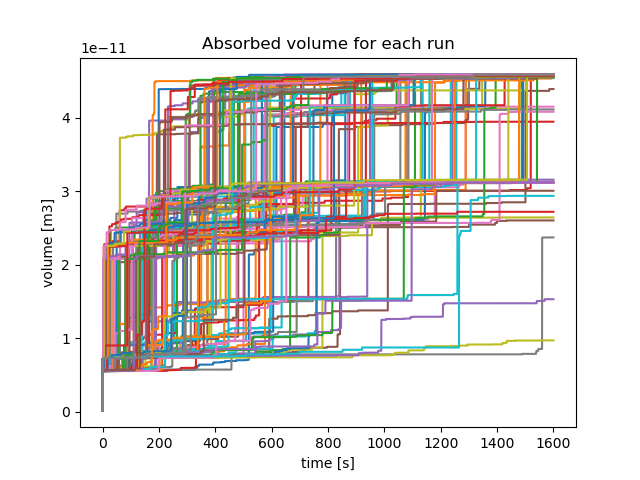
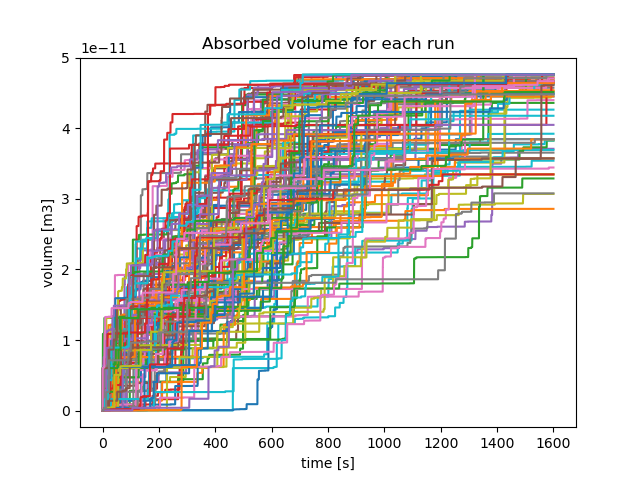
Update the inlet graphs to use the pore dataset

diff --git a/network_script.py b/network_script.py
@@ -231,8 +231,15 @@ class WickingPNM:
 
         self.graph = nx.Graph()
         self.graph.add_edges_from(np.uint16(throats[:,:2]))
-        self.params['re'] = np.sqrt(throats[:,8]/np.pi)*self.params['px']
-        self.params['h0e'] = throats[:,-3]*self.params['px']
+
+        ## From the throats
+        # self.params['re'] = np.sqrt(throats[:,8]/np.pi)*self.params['px']
+        # self.params['h0e'] = throats[:,-3]*self.params['px']
+        ## From the pore dataset
+        pore = xr.load_dataset(pore_data_path)
+        px = pore.attrs['voxel'].data
+        self.params['re'] = px*np.sqrt(pore['value_properties'].sel(property = 'median_area').data/np.pi)
+        self.params['h0e'] = px*pore['value_properties'].sel(property = 'major_axis').data
 
         # define waiting times
         self.waiting_times_data = stats.delta_t_all
